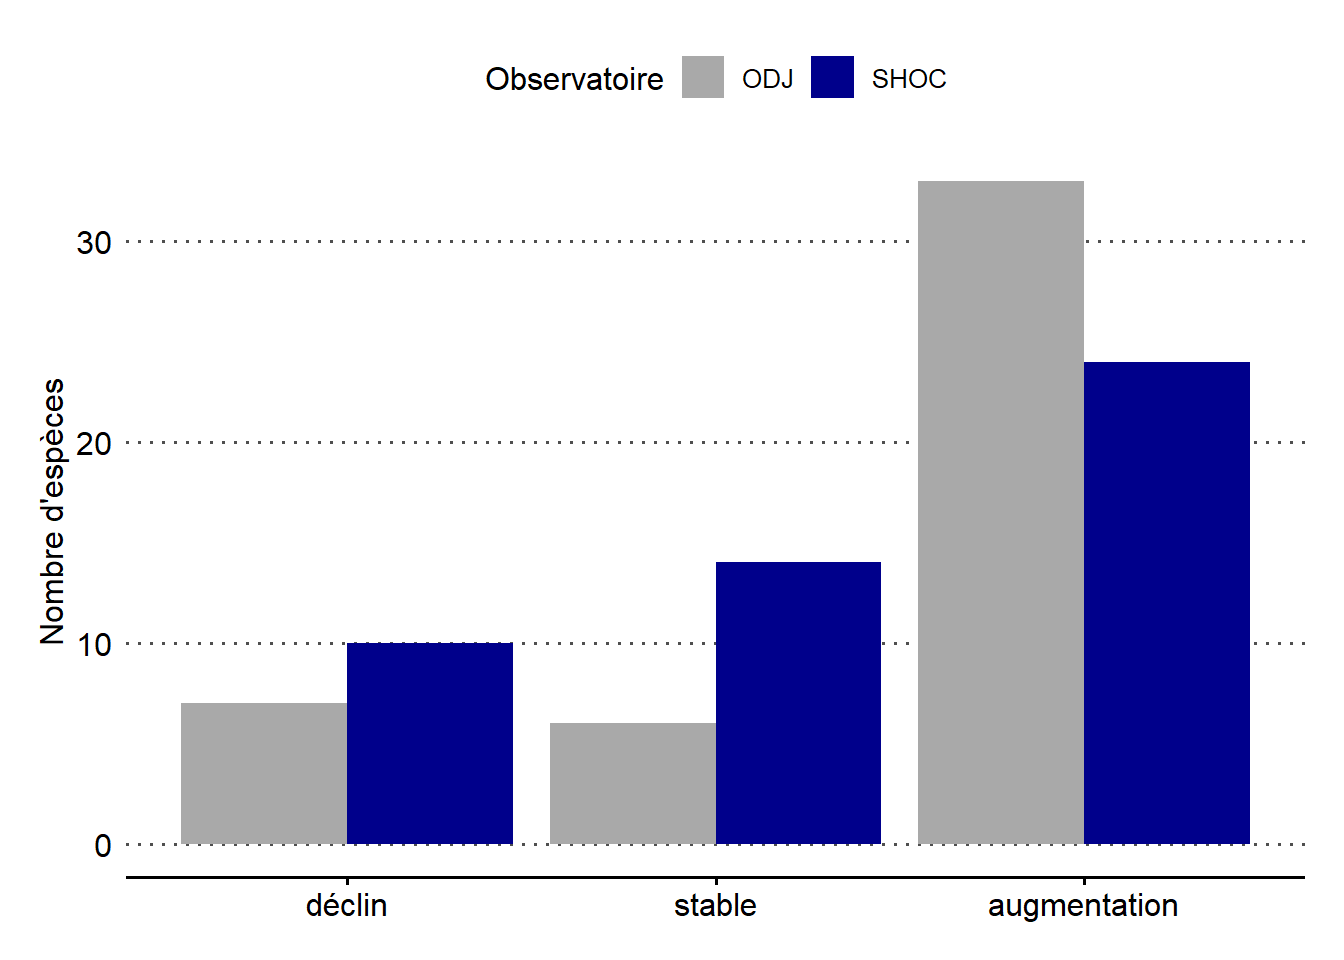
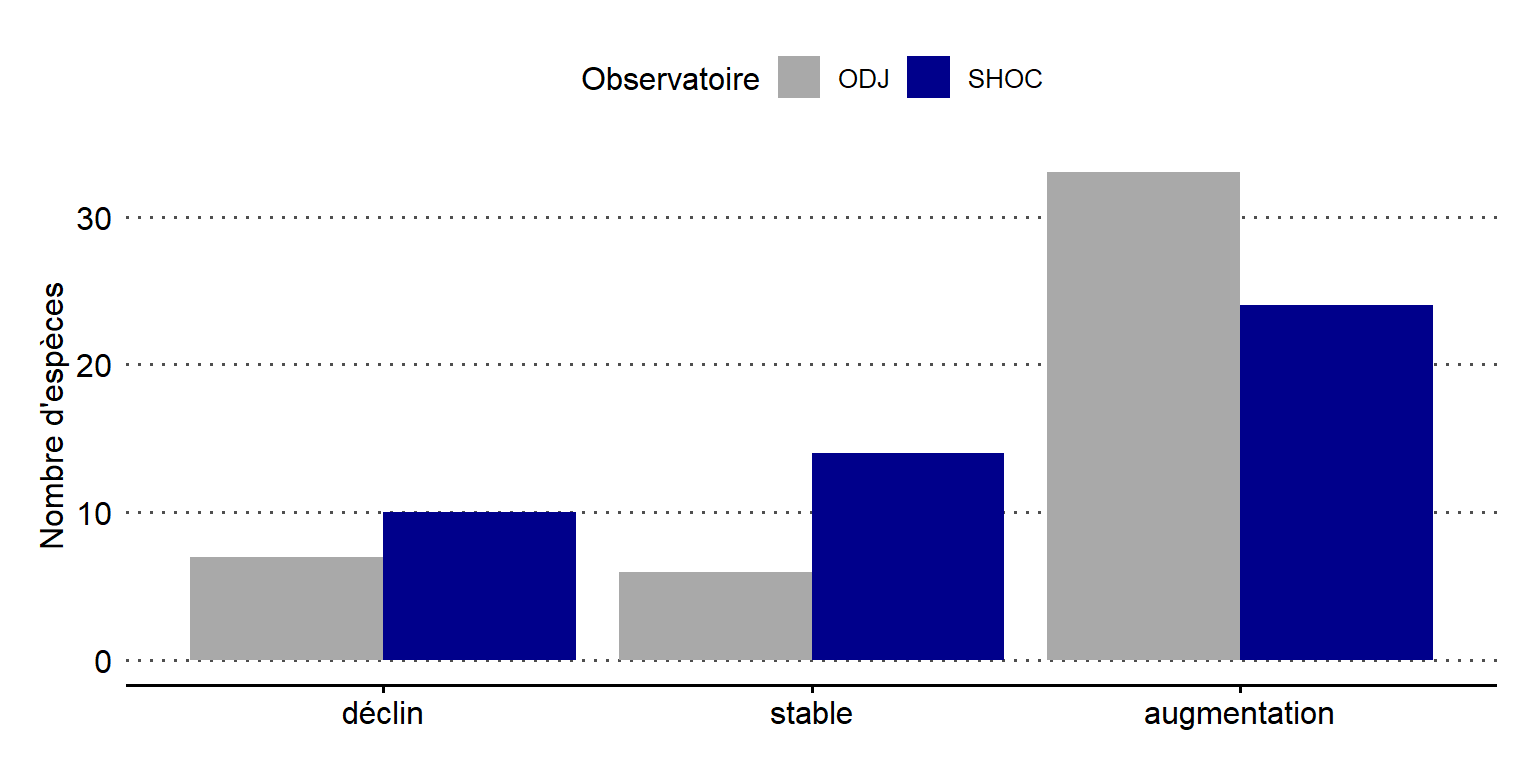
1er graph tendance à améliorer

diff --git a/index.html b/index.html
@@ -123,8 +123,8 @@ ul.task-list li input[type="checkbox"] {
 <p>Listes des espèces comparées :</p>
 <div class="cell">
 <div class="cell-output-display">
-<div class="datatables html-widget html-fill-item" id="htmlwidget-9a0f764ff3ab4d35c3ce" style="width:100%;height:auto;"></div>
-<script type="application/json" data-for="htmlwidget-9a0f764ff3ab4d35c3ce">{"x":{"filter":"none","vertical":false,"extensions":["Buttons"],"data":[["1","2","3","4","5","6","7","8","9","10","11","12","13","14","15","16","17","18","19","20","21","22","23","24","25","26","27","28","29","30","31","32"],["Étourneau sansonnet","Accenteur mouchet","Bergeronnette grise","Chardonneret élégant","Choucas des tours","Corneille noire","Fauvette à tête noire","Geai des chênes","Grimpereau des jardins","Grive musicienne","Grosbec casse-noyaux","Hirondelle rustique","Loriot d'Europe","Mésange à longue queue","Mésange bleue","Mésange charbonnière","Martinet noir","Merle noir","Moineau domestique","Moineau friquet","Pic épeiche","Pie bavarde","Pigeon biset domestique","Pigeon ramier","Pinson des arbres","Rougegorge familier","Rougequeue à front blanc","Rougequeue noir","Serin cini","Tourterelle turque","Troglodyte mignon","Verdier d'Europe"]],"container":"<table class=\"display\">\n  <thead>\n    <tr>\n      <th> <\/th>\n      <th>species<\/th>\n    <\/tr>\n  <\/thead>\n<\/table>","options":{"dom":"Blfrtip","buttons":["copy","csv","excel","pdf","print"],"lengthMenu":[[10,25,50,-1],["10","25","50","All"]],"columnDefs":[{"orderable":false,"targets":0},{"name":" ","targets":0},{"name":"species","targets":1}],"order":[],"autoWidth":false,"orderClasses":false}},"evals":[],"jsHooks":[]}</script>
+<div class="datatables html-widget html-fill-item" id="htmlwidget-94d982c8c95e2e039402" style="width:100%;height:auto;"></div>
+<script type="application/json" data-for="htmlwidget-94d982c8c95e2e039402">{"x":{"filter":"none","vertical":false,"extensions":["Buttons"],"data":[["1","2","3","4","5","6","7","8","9","10","11","12","13","14","15","16","17","18","19","20","21","22","23","24","25","26","27","28","29","30","31","32"],["Étourneau sansonnet","Accenteur mouchet","Bergeronnette grise","Chardonneret élégant","Choucas des tours","Corneille noire","Fauvette à tête noire","Geai des chênes","Grimpereau des jardins","Grive musicienne","Grosbec casse-noyaux","Hirondelle rustique","Loriot d'Europe","Mésange à longue queue","Mésange bleue","Mésange charbonnière","Martinet noir","Merle noir","Moineau domestique","Moineau friquet","Pic épeiche","Pie bavarde","Pigeon biset domestique","Pigeon ramier","Pinson des arbres","Rougegorge familier","Rougequeue à front blanc","Rougequeue noir","Serin cini","Tourterelle turque","Troglodyte mignon","Verdier d'Europe"]],"container":"<table class=\"display\">\n  <thead>\n    <tr>\n      <th> <\/th>\n      <th>species<\/th>\n    <\/tr>\n  <\/thead>\n<\/table>","options":{"dom":"Blfrtip","buttons":["copy","csv","excel","pdf","print"],"lengthMenu":[[10,25,50,-1],["10","25","50","All"]],"columnDefs":[{"orderable":false,"targets":0},{"name":" ","targets":0},{"name":"species","targets":1}],"order":[],"autoWidth":false,"orderClasses":false}},"evals":[],"jsHooks":[]}</script>
 </div>
 </div>
 </section>
@@ -134,8 +134,8 @@ ul.task-list li input[type="checkbox"] {
 <p>Listes des espèces comparées :</p>
 <div class="cell">
 <div class="cell-output-display">
-<div class="datatables html-widget html-fill-item" id="htmlwidget-c692277b2c5eb5fac3cd" style="width:100%;height:auto;"></div>
-<script type="application/json" data-for="htmlwidget-c692277b2c5eb5fac3cd">{"x":{"filter":"none","vertical":false,"extensions":["Buttons"],"data":[["1","2","3","4","5","6","7","8","9","10","11","12","13","14","15","16","17","18","19","20","21","22","23","24","25","26","27","28","29","30","31","32","33","34","35","36","37"],["Épervier d'Europe","Accenteur mouchet","Bergeronnette grise","Bouvreuil pivoine","Buse variable","Choucas des tours","Corneille noire","Faucon crécerelle","Geai des chênes","Grimpereau des jardins","Grive musicienne","Grosbec casse-noyaux","Mésange à longue queue","Mésange bleue","Mésange charbonnière","Mésange huppée","Mésange nonnette","Merle noir","Moineau domestique","Moineau friquet","Perruche à collier","Pic épeiche","Pic mar","Pic vert","Pie bavarde","Pigeon biset domestique","Pigeon ramier","Pinson des arbres","Pouillot véloce","Roitelet à triple bandeau","Rougegorge familier","Rougequeue noir","Sittelle torchepot","Tarin des aulnes","Tourterelle turque","Troglodyte mignon","Verdier d'Europe"]],"container":"<table class=\"display\">\n  <thead>\n    <tr>\n      <th> <\/th>\n      <th>species<\/th>\n    <\/tr>\n  <\/thead>\n<\/table>","options":{"dom":"Blfrtip","buttons":["copy","csv","excel","pdf","print"],"lengthMenu":[[10,25,50,-1],["10","25","50","All"]],"columnDefs":[{"orderable":false,"targets":0},{"name":" ","targets":0},{"name":"species","targets":1}],"order":[],"autoWidth":false,"orderClasses":false}},"evals":[],"jsHooks":[]}</script>
+<div class="datatables html-widget html-fill-item" id="htmlwidget-3f667b9f97eb49a30d06" style="width:100%;height:auto;"></div>
+<script type="application/json" data-for="htmlwidget-3f667b9f97eb49a30d06">{"x":{"filter":"none","vertical":false,"extensions":["Buttons"],"data":[["1","2","3","4","5","6","7","8","9","10","11","12","13","14","15","16","17","18","19","20","21","22","23","24","25","26","27","28","29","30","31","32","33","34","35","36","37"],["Épervier d'Europe","Accenteur mouchet","Bergeronnette grise","Bouvreuil pivoine","Buse variable","Choucas des tours","Corneille noire","Faucon crécerelle","Geai des chênes","Grimpereau des jardins","Grive musicienne","Grosbec casse-noyaux","Mésange à longue queue","Mésange bleue","Mésange charbonnière","Mésange huppée","Mésange nonnette","Merle noir","Moineau domestique","Moineau friquet","Perruche à collier","Pic épeiche","Pic mar","Pic vert","Pie bavarde","Pigeon biset domestique","Pigeon ramier","Pinson des arbres","Pouillot véloce","Roitelet à triple bandeau","Rougegorge familier","Rougequeue noir","Sittelle torchepot","Tarin des aulnes","Tourterelle turque","Troglodyte mignon","Verdier d'Europe"]],"container":"<table class=\"display\">\n  <thead>\n    <tr>\n      <th> <\/th>\n      <th>species<\/th>\n    <\/tr>\n  <\/thead>\n<\/table>","options":{"dom":"Blfrtip","buttons":["copy","csv","excel","pdf","print"],"lengthMenu":[[10,25,50,-1],["10","25","50","All"]],"columnDefs":[{"orderable":false,"targets":0},{"name":" ","targets":0},{"name":"species","targets":1}],"order":[],"autoWidth":false,"orderClasses":false}},"evals":[],"jsHooks":[]}</script>
 </div>
 </div>
 </section>
@@ -153,23 +153,15 @@ ul.task-list li input[type="checkbox"] {
 <p><strong>Figure à l’appui</strong> : camembert hiver/été avec tendances opposées et similaires (dans similaire mettre les tendances identiques et les tendances différentes ie stable versus déclin ou augmentation – ne pas expliquer cela au grand public).</p>
 </section>
 <section id="nombre-despèces-déclinaugmentationstable" class="level3">
-<h3 class="anchored" data-anchor-id="nombre-despèces-déclinaugmentationstable">!!! Nombre d’espèces déclin/augmentation/stable</h3>
+<h3 class="anchored" data-anchor-id="nombre-despèces-déclinaugmentationstable">Nombre d’espèces déclin/augmentation/stable</h3>
 </section>
 <section id="odj-stoc-2" class="level3">
 <h3 class="anchored" data-anchor-id="odj-stoc-2">ODJ-STOC</h3>
 <div class="cell">
-<div class="cell-output cell-output-stderr">
-<pre><code>Warning in grid.Call(C_stringMetric, as.graphicsAnnot(x$label)): famille de
-police introuvable dans la base de données des polices Windows</code></pre>
-</div>
-<div class="cell-output cell-output-stderr">
-<pre><code>Warning in grid.Call.graphics(C_text, as.graphicsAnnot(x$label), x$x, x$y, :
-famille de police introuvable dans la base de données des polices Windows</code></pre>
-</div>
 <div class="cell-output-display">
 <div>
 <figure class="figure">
-<p><img src="index_files/figure-html/unnamed-chunk-8-1.png" class="img-fluid figure-img" width="672"></p>
+<p><img src="index_files/figure-html/unnamed-chunk-8-1.png" class="img-fluid figure-img" width="768"></p>
 </figure>
 </div>
 </div>
@@ -178,30 +170,10 @@ famille de police introuvable dans la base de données des polices Windows</code
 <section id="odj-stoc-3" class="level3">
 <h3 class="anchored" data-anchor-id="odj-stoc-3">ODJ-STOC</h3>
 <div class="cell">
-<div class="cell-output cell-output-stderr">
-<pre><code>Warning in grid.Call(C_textBounds, as.graphicsAnnot(x$label), x$x, x$y, :
-famille de police introuvable dans la base de données des polices Windows</code></pre>
-</div>
-<div class="cell-output cell-output-stderr">
-<pre><code>Warning in grid.Call(C_stringMetric, as.graphicsAnnot(x$label)): famille de
-police introuvable dans la base de données des polices Windows</code></pre>
-</div>
-<div class="cell-output cell-output-stderr">
-<pre><code>Warning in grid.Call(C_textBounds, as.graphicsAnnot(x$label), x$x, x$y, :
-famille de police introuvable dans la base de données des polices Windows</code></pre>
-</div>
-<div class="cell-output cell-output-stderr">
-<pre><code>Warning in grid.Call.graphics(C_text, as.graphicsAnnot(x$label), x$x, x$y, :
-famille de police introuvable dans la base de données des polices Windows
-Warning in grid.Call.graphics(C_text, as.graphicsAnnot(x$label), x$x, x$y, :
-famille de police introuvable dans la base de données des polices Windows
-Warning in grid.Call.graphics(C_text, as.graphicsAnnot(x$label), x$x, x$y, :
-famille de police introuvable dans la base de données des polices Windows</code></pre>
-</div>
 <div class="cell-output-display">
 <div>
 <figure class="figure">
-<p><img src="index_files/figure-html/unnamed-chunk-9-1.png" class="img-fluid figure-img" width="672"></p>
+<p><img src="index_files/figure-html/unnamed-chunk-9-1.png" class="img-fluid figure-img" width="768"></p>
 </figure>
 </div>
 </div>
@@ -211,26 +183,10 @@ famille de police introuvable dans la base de données des polices Windows</code
 <section id="odj-shoc-2" class="level3">
 <h3 class="anchored" data-anchor-id="odj-shoc-2">ODJ-SHOC</h3>
 <div class="cell">
-<div class="cell-output cell-output-stderr">
-<pre><code>Warning in grid.Call(C_textBounds, as.graphicsAnnot(x$label), x$x, x$y, :
-famille de police introuvable dans la base de données des polices Windows
-Warning in grid.Call(C_textBounds, as.graphicsAnnot(x$label), x$x, x$y, :
-famille de police introuvable dans la base de données des polices Windows
-Warning in grid.Call(C_textBounds, as.graphicsAnnot(x$label), x$x, x$y, :
-famille de police introuvable dans la base de données des polices Windows</code></pre>
-</div>
-<div class="cell-output cell-output-stderr">
-<pre><code>Warning in grid.Call.graphics(C_text, as.graphicsAnnot(x$label), x$x, x$y, :
-famille de police introuvable dans la base de données des polices Windows
-Warning in grid.Call.graphics(C_text, as.graphicsAnnot(x$label), x$x, x$y, :
-famille de police introuvable dans la base de données des polices Windows
-Warning in grid.Call.graphics(C_text, as.graphicsAnnot(x$label), x$x, x$y, :
-famille de police introuvable dans la base de données des polices Windows</code></pre>
-</div>
 <div class="cell-output-display">
 <div>
 <figure class="figure">
-<p><img src="index_files/figure-html/unnamed-chunk-10-1.png" class="img-fluid figure-img" width="672"></p>
+<p><img src="index_files/figure-html/unnamed-chunk-10-1.png" class="img-fluid figure-img" width="768"></p>
 </figure>
 </div>
 </div>
@@ -256,39 +212,63 @@ famille de police introuvable dans la base de données des polices Windows</code
 <p>Se baser sur les sorties graphiques produites par Gwen</p>
 <p>ATTENTION : penser à bien revérifier les tendances du STOC et SHOC qui seront publiées dans le rapport qui sortira à l’automne</p>
 <section id="verdier-deurope" class="level3">
-<h3 class="anchored" data-anchor-id="verdier-deurope">!!! Verdier d’Europe</h3>
+<h3 class="anchored" data-anchor-id="verdier-deurope">Verdier d’Europe</h3>
 <section id="odj-stoc-5" class="level4">
 <h4 class="anchored" data-anchor-id="odj-stoc-5">ODJ-STOC</h4>
+<p>Tendance similaire</p>
 <div class="cell">
-<div class="cell-output cell-output-stderr">
-<pre><code>Warning: Using `size` aesthetic for lines was deprecated in ggplot2 3.4.0.
-ℹ Please use `linewidth` instead.</code></pre>
-</div>
-<div class="cell-output cell-output-stderr">
-<pre><code>Warning in grid.Call(C_textBounds, as.graphicsAnnot(x$label), x$x, x$y, :
-famille de police introuvable dans la base de données des polices Windows</code></pre>
-</div>
-<div class="cell-output cell-output-stderr">
-<pre><code>Warning in grid.Call.graphics(C_text, as.graphicsAnnot(x$label), x$x, x$y, :
-famille de police introuvable dans la base de données des polices Windows</code></pre>
-</div>
 <div class="cell-output-display">
 <div>
 <figure class="figure">
-<p><img src="index_files/figure-html/unnamed-chunk-12-1.png" class="img-fluid figure-img" width="672"></p>
+<p><img src="index_files/figure-html/unnamed-chunk-12-1.png" class="img-fluid figure-img" width="768"></p>
 </figure>
 </div>
 </div>
 </div>
-<p>bon exemple. Tendance similaire pour les 2 suivis</p>
 </section>
 <section id="odj-shoc-4" class="level4">
-<h4 class="anchored" data-anchor-id="odj-shoc-4">!!! ODJ-SHOC</h4>
+<h4 class="anchored" data-anchor-id="odj-shoc-4">ODJ-SHOC</h4>
+<p>Tendance similaire</p>
+<div class="cell">
+<div class="cell-output-display">
+<div>
+<figure class="figure">
+<p><img src="index_files/figure-html/unnamed-chunk-14-1.png" class="img-fluid figure-img" width="768"></p>
+</figure>
+</div>
+</div>
+</div>
 </section>
 </section>
 <section id="sittelle-torchepot" class="level3">
 <h3 class="anchored" data-anchor-id="sittelle-torchepot">!!! Sittelle torchepot</h3>
 <p>différence pour hiver avec explications</p>
+<section id="odj-stoc-6" class="level4">
+<h4 class="anchored" data-anchor-id="odj-stoc-6">ODJ-STOC</h4>
+<p>Tendance similaire</p>
+<div class="cell">
+<div class="cell-output-display">
+<div>
+<figure class="figure">
+<p><img src="index_files/figure-html/unnamed-chunk-16-1.png" class="img-fluid figure-img" width="768"></p>
+</figure>
+</div>
+</div>
+</div>
+</section>
+<section id="odj-shoc-5" class="level4">
+<h4 class="anchored" data-anchor-id="odj-shoc-5">ODJ-SHOC</h4>
+<p>Tendance similaire</p>
+<div class="cell">
+<div class="cell-output-display">
+<div>
+<figure class="figure">
+<p><img src="index_files/figure-html/unnamed-chunk-18-1.png" class="img-fluid figure-img" width="768"></p>
+</figure>
+</div>
+</div>
+</div>
+</section>
 </section>
 <section id="grosbec-casse-noyaux" class="level3">
 <h3 class="anchored" data-anchor-id="grosbec-casse-noyaux">!!! Grosbec casse noyaux </h3>
